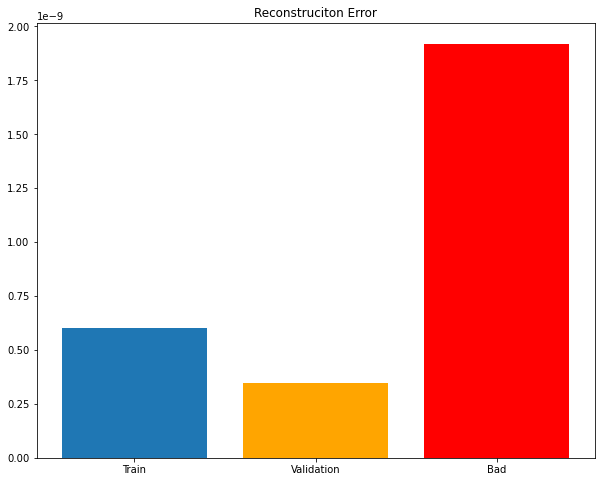
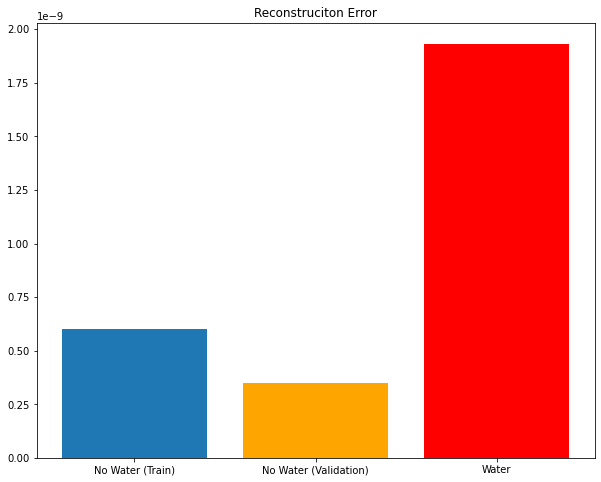
update

diff --git a/support/visualization.py b/support/visualization.py
@@ -84,7 +84,7 @@ def compare_results_by_loss(total_loss, recon_loss, kl_loss, figsize = (18, 6)):
     
 #%% Histogram
 
-def draw_hist_loss(good_spectra_dataset_train, good_spectra_dataset_validation, bad_spectra_dataset, vae,  device = torch.device("cpu"), batch_size = 50, n_spectra = -1, figsize = (10, 8)):
+def draw_hist_loss(good_spectra_dataset_train, good_spectra_dataset_validation, bad_spectra_dataset, vae,  device = torch.device("cpu"), batch_size = 50, n_spectra = -1, figsize = (10, 8), labels = ["Train", "Validation", "Bad"]):
     vae.to(device)
     vae.eval()
     
@@ -100,7 +100,7 @@ def draw_hist_loss(good_spectra_dataset_train, good_spectra_dataset_validation, 
     tmp_loss = [good_spectra_train_loss, good_spectra_validation_loss, bad_spectra_loss]
     plt.figure(figsize = figsize)
     color = ['C0', 'orange', 'red']
-    plt.bar(["Train", "Validation", "Bad"], tmp_loss, color = color)
+    plt.bar(labels, tmp_loss, color = color)
     plt.title("Reconstruciton Error")
     
     
